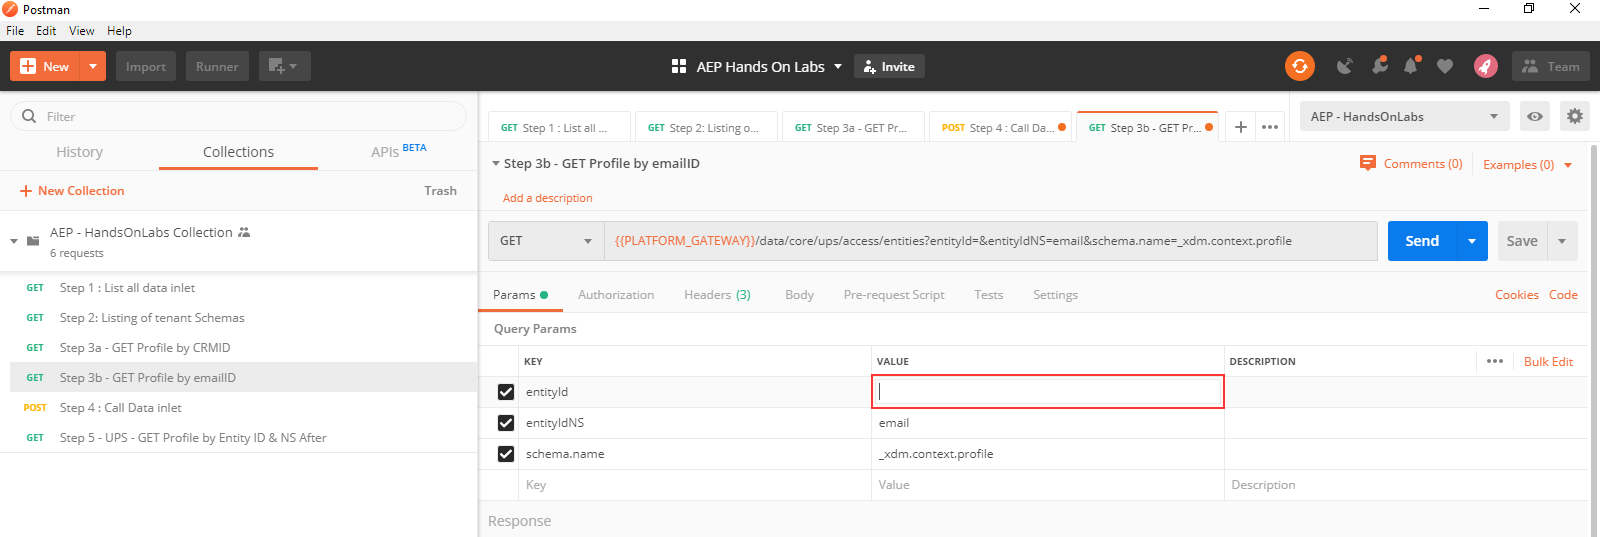
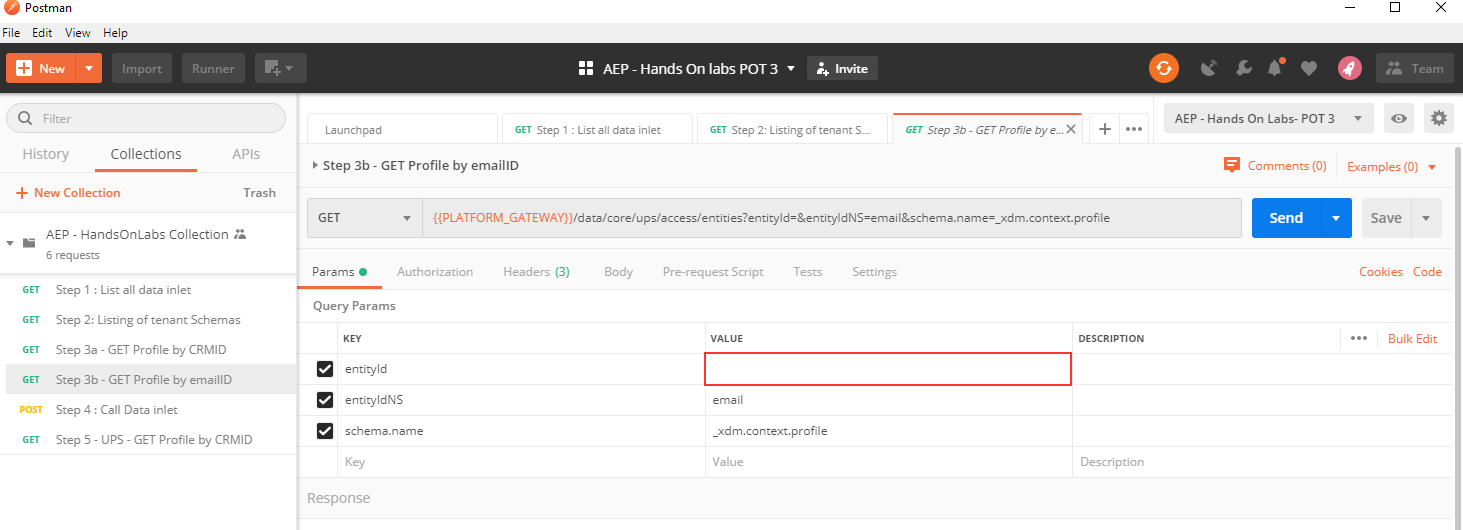
api changes

diff --git a/labs/travel/Foundations/DeepDive QueryService.md b/labs/travel/Foundations/DeepDive QueryService.md
@@ -75,7 +75,7 @@ How many product views do we have on a daily basis?
 ```sql
 select date_format( timestamp , 'yyyy-MM-dd') AS Day,
        count(*) AS productViews
-from   fsi_demo_data_postvalues
+from   travel_demo_data_midvalues
 where  web.webPageDetails.pageViews.value = '1.0'
 group by Day
 order by day desc
@@ -90,30 +90,30 @@ Copy the statement above and execute it in your **PSQL command-line interface**.
 all-> limit 10;
     Day     | productViews
 ------------+--------------
- 2020-02-06 |        16320
- 2020-02-05 |        20822
- 2020-02-04 |        20773
- 2020-02-03 |        30356
- 2020-02-02 |        20708
- 2020-02-01 |        11211
- 2020-01-31 |        11212
- 2020-01-30 |        20636
- 2020-01-29 |        20735
- 2020-01-28 |        20818
+ 2020-02-18 |        40791
+ 2020-02-17 |        29814
+ 2020-02-16 |         3482
+ 2020-02-15 |        59161
+ 2020-02-14 |        44334
+ 2020-02-13 |        60469
+ 2020-02-12 |        59922
+ 2020-02-11 |        60461
+ 2020-02-10 |        75166
+ 2020-02-09 |       102264
 (10 rows)
 
 all=> 
 ```
 
-### Top 5 products viewed
+### Top 5 pages viewed
 
-What are the top 5 products viewed?
+What are the top 5 pages viewed?
 
 **SQL**
 
 ```sql
 select web.webPageDetails.name, count(*)
-from   fsi_demo_data_postvalues
+from   travel_demo_data_midvalues
 where  web.webPageDetails.pageViews.value = '1.0'
 group  by web.webPageDetails.name
 order  by 2 desc
@@ -127,13 +127,13 @@ Copy the statement above and execute it in your **PSQL command-line interface**.
 ```text
 all-> limit 5;
 prod:all-> limit 5;
-       name        | count(1)
--------------------+----------
- home              |   680022
- purchase: step 1  |   478634
- purchase: step 2  |   347305
- app: launch       |   324601
- voice: app launch |   318831
+         name          | count(1)
+-----------------------+----------
+ home                  |    59777
+ OptinToLoyaltyProgram |    37338
+ LoyaltyProgramPage    |    35502
+ purchase: step 1      |    33348
+ ViewProductDetailPage |    30345
 (5 rows)
 
 all=>  
@@ -146,13 +146,14 @@ all=>
 **SQL**
 
 ```sql
-select distinct _experience.analytics.customDimensions.eVars.eVar9, crm._adobeamericaspot1.emailId as emailAddress
-from   fsi_demo_data_postvalues aa,
-crm_dataset crm
-where crm._adobeamericaspot1.CRMID = aa._experience.analytics.customDimensions.eVars.eVar9
+select distinct _experience.analytics.customDimensions.eVars.eVar9, crm._adobeamericaspot3.Email as emailAddress
+from   travel_demo_data_midvalues
+ aa,
+profile_dataset crm
+where crm._adobeamericaspot3.CRMID = aa._experience.analytics.customDimensions.eVars.eVar9
 and web.webPageDetails.name = 'help' 
 and _experience.analytics.customDimensions.eVars.eVar9 IS NOT NULL
-limit 10;;
+limit 10;
 ```
 
 Copy the statement above and execute it in your **PSQL command-line interface**.
@@ -227,10 +228,12 @@ FROM
                              ORDER BY timestamp 
                              ROWS BETWEEN UNBOUNDED PRECEDING AND CURRENT ROW) 
                   AS session
-            from   fsi_demo_data_postvalues a
+            from   travel_demo_data_midvalues
+ a
             where  a.endUserIDs._experience.mcid.id in ( 
                 select b.endUserIDs._experience.mcid.id
-                from   fsi_demo_data_postvalues b
+                from   travel_demo_data_midvalues
+ b
                 where web.webPageDetails.name = 'help' 
 				and b.endUserIDs._experience.mcid.id IS NOT NULL
             )
@@ -249,18 +252,18 @@ Copy the statement above and execute it in your **PSQL command-line interface**.
 
 ```text
 prod:all-> LIMIT 10;
- webPage |         webPage_2          | webPage_3 |  webPage_4   | journeys
----------+----------------------------+-----------+--------------+----------
- home    | edit account details       | help      | home         |       17
- home    | search results             | help      | home         |       17
- home    | no location search results | help      |              |       12
- home    | feedback                   | help      | home         |       10
- home    | edit account details       | help      | subscription |        9
- home    | no location search results | help      | home         |        8
- home    | edit account details       | help      | articles     |        7
- home    | feedback                   | help      |              |        6
- home    | search results             | help      | subscription |        6
- home    | blogs                      | help      |              |        6
+         webPage         |        webPage_2        | webPage_3 |        webPage_4        | journeys
+-------------------------+-------------------------+-----------+-------------------------+----------
+ home                    | search results          | help      |                         |        8
+ home                    | feedback                | help      |                         |        3
+ home                    | edit account details    | help      |                         |        3
+ home                    | search results          | help      | articles                |        2
+ home                    | update info             | help      | service: service41      |        1
+ home                    | location search results | help      |                         |        1
+ home                    | search results          | help      | help: helpid1046        |        1
+ download: downloadid100 | subscription            | help      | download: downloadid149 |        1
+ home                    | feedback                | help      | about us                |        1
+ events                  | event details           | help      | service: service24      |        1
 (10 rows)     
 
 all=> 
@@ -283,12 +286,13 @@ select * from (
                   ORDER BY timestamp
                   ROWS BETWEEN CURRENT ROW AND UNBOUNDED FOLLOWING)
               AS contact_us_after_seconds
-       from   fsi_demo_data_postvalues
+       from   travel_demo_data_midvalues
+
        where  web.webPageDetails.name in ('help', 'contact us')
 	   
 ) r
 where r.webPage = 'help' 
-and  contact_callcenter_after_seconds is not null
+and  contact_us_after_seconds is not null
 and ecid IS NOT NULL
 order by contact_us_after_seconds desc
 limit 15;
@@ -301,24 +305,22 @@ Copy the statement above and execute it in your **PSQL command-line interface**.
 ```text
 prod:all-> limit 15;
                   ecid                  | webPage | contact_us_after_seconds
-----------------------------------------+---------+----------------------------------
- 65139124502948298803156531614258643756 | help    |                              -30
- 66649610981445196224711646938596094441 | help    |                              -32
- 68027651042594513463568912382624709949 | help    |                              -32
- 76019626396529976292754170790284444840 | help    |                              -33
- 75424204192345402470780614687917362522 | help    |                              -34
- 76661521527769628166173448974936881688 | help    |                              -35
- 91245401846255640644822288611808489972 | help    |                              -35
- 69677910881601865524265215490043957204 | help    |                              -35
- 70659556872747905387373988802185902326 | help    |                              -35
- 63393373519022880338680665558865694006 | help    |                              -38
- 89306763251445058691877169000356427088 | help    |                              -38
- 68237579106120709922948600328313093565 | help    |                              -39
- 90099710327187435702263514843195947829 | help    |                              -40
- 71546782836375830748486573904035494034 | help    |                              -40
- 86442452057742483562513748727810666739 | help    |                              -41
-(15 rows)
-
+----------------------------------------+---------+--------------------------
+ 63823469114126614642345387152201006684 | help    |                      -90
+ 80754420904774428733506250839143369594 | help    |                      -90
+ 88377604148053432058816409689492601363 | help    |                      -97
+ 74984852109255501757734972488849276412 | help    |                     -116
+ 82687578684200753625403502085298173658 | help    |                     -201
+ 60824733890573918241826149831006075370 | help    |                     -873
+ 83087872889918868816169465668534057534 | help    |                   -13225
+ 64901031099876963442816840090228734226 | help    |                   -24569
+ 55022787637403064897181537130490186992 | help    |                   -47743
+ 72553521774911701091274051601998328318 | help    |                  -324629
+ 69409466322272568198835567698333577467 | help    |                  -381146
+ 77778980049255480192820597476957991241 | help    |                  -389988
+ 46681180103771127030304438795340301462 | help    |                  -390858
+ 50028126323920080091412027150929606017 | help    |                  -445806
+ 57977164580347900913210460396295142277 | help    |                  -635993
 
 all=> 
 ```
@@ -331,7 +333,7 @@ Lets include the geographical info, like longitude, lattitude, city, countrycode
 **SQL**
 
 ```sql
-select distinct crm._adobeamericaspot1.crmid,
+select distinct crm._adobeamericaspot3.crmid,
        r.city,
        r.countrycode,
        r.lat as latitude,
@@ -350,11 +352,12 @@ from (
                   ORDER BY timestamp
                   ROWS BETWEEN CURRENT ROW AND UNBOUNDED FOLLOWING)
               AS contact_us_after_seconds
-       from   fsi_demo_data_postvalues
+       from   travel_demo_data_midvalues
+
        where  web.webPageDetails.name in ('help', 'contact us')
 ) r
-, crm_dataset crm
-where crm._adobeamericaspot1.crmid = r.crmid
+, profile_dataset crm
+where crm._adobeamericaspot3.crmid = r.crmid
 and r.webPage = 'help'
 and  contact_us_after_seconds is not null
 order by seconds_to_contact_us desc

diff --git a/labs/travel/Foundations/APIs.md b/labs/travel/Foundations/APIs.md
@@ -65,7 +65,7 @@ Instructions:
      ![Demo](./images/postmanimport.png)
 
 
-3. Then drag an drop 'AEP - HandonLabs.postman_environment.json' and AEP - HandsOnLabs Collection.json' files
+3. Then drag an drop 'AEP - Hands On Labs- POT 3.postman_environment.json' and 'AEP - HandsOnLabs Collection.postman_collection.json' files
 
     <!---
     ![Demo](./images/postmanimport1.png)
@@ -74,7 +74,7 @@ Instructions:
     <kbd><img src="./images/postmanimport1.png"  /></kdb>
      
      
-4. Select 'AEP - HandsOnLabs' environment.
+4. Select 'AEP - Hands On Labs- POT 3' environment.
 
 
     <!---
